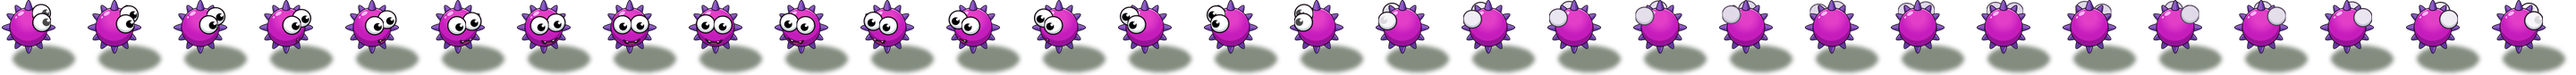
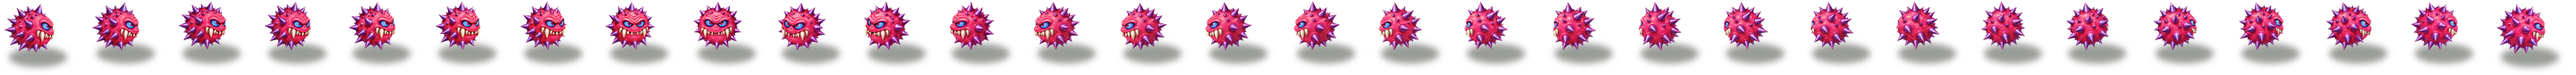
Repaint Pokey (all 30 headings) with the Codex v2 look
Claude-Session: https://claude.ai/code/session_01SMsyPA2gdtNVrQYtH9AZv3

diff --git a/web/tools/gen-pokey-full-sprite.py b/web/tools/gen-pokey-full-sprite.py
@@ -1,0 +1,167 @@
+"""
+Build the repainted Pokey (C1) from all 30 headings sprite sheet from Codex-painted frames. Replaces the parts-method sheet of gen-pokey-sprite.py.
+Usage (from the repo root):
+
+    pip install pillow numpy scipy
+    python web/tools/gen-pokey-full-sprite.py <source folder>
+
+The source folder holds the 2x2 grids that Codex painted on a flat #FF00FF ground (web/tools/pokey-kit/make_batch.py
+builds the inputs and the prompt of each call), named after the four sheet columns they cover, left to right then
+top to bottom: frames-0-1-2-3.png ... A quadrant that is not to be used (a column painted better in another grid)
+is written `x`, e.g. frames-16-17-18-x.png.
+
+Each painted frame is keyed (the magenta ground is flood-filled from the edge) and scaled so its whole silhouette covers
+about as many pixels as the old sprite does (AREA), with one factor smoothed over the 5 nearest headings so the size does not wobble. The monster stands
+on the old sprite's ground line, lifted a little brighter so it reads at the real size, with a soft ground shadow
+drawn under it. Output, in the original layout (30 headings in one row, 0 = east, clockwise, 12 degrees apart;
+24x21 cells):
+
+    server/public/assets/monsters/pokey-repaint.png      720x21
+    server/public/assets/monsters/pokey-repaint@4x.png   2880x84, the same at 4x
+
+The game draws the @4x sheet (REPAINTED_SHEETS in web/src/game/attack/monsterSprites.ts).
+"""
+import sys
+from pathlib import Path
+import numpy as np
+from PIL import Image, ImageFilter, ImageDraw
+from scipy import ndimage as ndi
+
+CELL = (24, 21)
+DIRS = 30
+UP = 4                     # the repaint's scale
+GAMMA = 0.9                # lifts the painting a little so it reads at the real size
+MARGIN = 0.5               # keep this many 1x pixels inside the cell
+AREA = 1.3                 # new silhouette area / old silhouette area (1 = the same size as the old sprite)
+DROP = 1.0                 # the new claw tips stand this many 1x pixels below the old solid body's bottom
+
+if len(sys.argv) != 2:
+    sys.exit(__doc__)
+SOURCE = Path(sys.argv[1])
+REPO = Path(__file__).resolve().parents[2]
+ASSETS = REPO / "server" / "public" / "assets" / "monsters"
+ORIGINAL = Image.open(ASSETS / "sprite.1.v1.png").convert("RGBA")
+
+
+def original_cell(col):
+    return np.asarray(ORIGINAL.crop((col * CELL[0], 0, (col + 1) * CELL[0], CELL[1]))).astype(int)
+
+
+def bbox(mask):
+    ys, xs = np.where(mask)
+    return xs.min(), ys.min(), xs.max() + 1, ys.max() + 1
+
+
+def old_body(col):
+    c = original_cell(col)
+    solid = c[..., 3] > 235
+    return solid, solid
+
+
+def teal(im):
+    """The whole painted monster (solid pixels of the cutout)."""
+    return np.asarray(im)[..., 3] > 200
+
+
+def key(path):
+    """The 4 monsters of a grid as RGBA cutouts, one per quadrant (cut at half the width and height)."""
+    rgb = np.asarray(Image.open(path).convert("RGB"), dtype=float)
+    h, w = rgb.shape[:2]
+    r, g, b = rgb[..., 0], rgb[..., 1], rgb[..., 2]
+    mx = np.maximum(r, b)
+    ground = (r > 185) & (b > 185) & (g < 110) & (np.abs(r - b) < 55)   # true magenta only, so the purple spikes survive
+    lab, _ = ndi.label(ground)
+    edge = set(lab[0, :]) | set(lab[-1, :]) | set(lab[:, 0]) | set(lab[:, -1])
+    edge.discard(0)
+    fg = ndi.binary_opening(~np.isin(lab, list(edge)), iterations=2)
+    lab2, _ = ndi.label(fg)
+    keep = np.zeros_like(fg)
+    for q in range(4):
+        x0, y0 = (q % 2) * w // 2, (q // 2) * h // 2
+        sub = lab2[y0:y0 + h // 2, x0:x0 + w // 2]
+        ids, cnt = np.unique(sub[sub > 0], return_counts=True)
+        for i, c in zip(ids, cnt):
+            if c > cnt.max() * 0.02:
+                keep[y0:y0 + h // 2, x0:x0 + w // 2] |= sub == i
+    keep = ndi.binary_fill_holes(keep)
+    keep &= ~((r > 215) & (b > 190) & (g < 90) & (np.abs(r - b) < 40))   # stray ground flecks
+    keep = ndi.binary_erosion(keep, iterations=2)
+    alpha = np.asarray(Image.fromarray((keep * 255).astype("uint8")).filter(ImageFilter.GaussianBlur(1.2)))
+    cut = Image.fromarray(np.dstack([rgb, alpha]).astype("uint8"), "RGBA")
+    return [cut.crop(((q % 2) * w // 2, (q // 2) * h // 2, (q % 2 + 1) * w // 2, (q // 2 + 1) * h // 2)) for q in range(4)]
+
+
+def resize_premultiplied(im, size):
+    """LANCZOS resize with the colour weighted by alpha, so the magenta ground leaves no fringe."""
+    a = np.asarray(im).astype("float32")
+    a[..., :3] *= a[..., 3:] / 255
+    chans = [np.asarray(Image.fromarray(a[..., i], "F").resize(size, Image.LANCZOS)) for i in range(4)]
+    o = np.dstack(chans)
+    al = np.clip(o[..., 3:], 0, 255)
+    rgb = np.where(al > 0, o[..., :3] / np.maximum(al, 1e-3) * 255, 0)
+    return Image.fromarray(np.dstack([np.clip(rgb, 0, 255), al]).astype("uint8"), "RGBA")
+
+
+painted = {}
+for path in sorted(SOURCE.glob("frames-*.png"), key=lambda p: [int(c) for c in p.stem.split("-")[1:] if c != "x"]):
+    names = path.stem.split("-")[1:]
+    for name, cut in zip(names, key(path)):
+        if name != "x":
+            painted.setdefault(int(name), cut)
+missing = [c for c in range(DIRS) if c not in painted]
+if missing:
+    sys.exit(f"no painting of columns {missing}")
+
+# one scale per heading: the old silhouette area over the new one, smoothed over 5 headings
+cover = {}
+for col, cut in painted.items():
+    cover[col] = np.sqrt(AREA * old_body(col)[1].sum() / teal(cut).sum())   # 1x pixels per painted pixel
+scale, fit, cap = {}, {}, {}
+for col, cut in painted.items():
+    # the painted grids differ in resolution, so smooth the size in 1x pixels (scale x sqrt of the painted area), not the scale
+    near = [cover[(col + d) % DIRS] * np.sqrt(teal(painted[(col + d) % DIRS]).sum()) for d in range(-2, 3)]
+    k = float(np.median(near)) / np.sqrt(teal(cut).sum())
+    solid, green = old_body(col)
+    gx0, gy0, gx1, gy1 = bbox(green)
+    tx0, ty0, tx1, ty1 = bbox(teal(cut))
+    cx, bottom = (gx0 + gx1) / 2, min(bbox(solid)[3] + DROP, CELL[1] - 2.5)   # the tentacle tips stand on the old ground line
+    fx0, fy0, fx1, fy1 = bbox(np.asarray(cut)[..., 3] > 40)
+    mid = (tx0 + tx1) / 2
+    left, right = (mid - fx0) * k, (fx1 - mid) * k
+    # the whole painting (tentacles included) has to stay in the cell
+    limit = min((cx - MARGIN) / left, (CELL[0] - MARGIN - cx) / right, (bottom - MARGIN) / ((fy1 - fy0) * k))
+    scale[col] = k * min(1.0, limit)
+    cap[col] = k * limit
+    fit[col] = (cx, bottom, mid, fy1)
+    print(f"column {col:2}: want {k:.4f} limit {limit:.3f} scale {scale[col]:.4f}" + (" (cut to fit the cell)" if limit < 1 else ""), file=sys.stderr)
+
+# smooth the cut sizes too (a heading cut harder than its neighbours would pulse), but never past the cell
+size = {c: scale[c] * np.sqrt(teal(painted[c]).sum()) for c in scale}
+scale = {c: min(cap[c], float(np.mean([size[(c + d) % DIRS] for d in range(-2, 3)])) / np.sqrt(teal(painted[c]).sum())) for c in scale}
+
+cw, ch = CELL[0] * UP, CELL[1] * UP
+sheet = Image.new("RGBA", (DIRS * cw, ch))
+for col in range(DIRS):
+    cut = painted[col]
+    cx, bottom, mid, fy1 = fit[col]
+    s = scale[col] * UP
+    mon = resize_premultiplied(cut, (max(1, round(cut.width * s)), max(1, round(cut.height * s))))
+    px = np.asarray(mon).astype(float)
+    px[..., :3] = 255 * (px[..., :3] / 255) ** GAMMA
+    mon = Image.fromarray(px.astype("uint8"), "RGBA")
+    bx, by = cx * UP, bottom * UP
+    ox, oy = round(bx - mid * s), round(by - fy1 * s)
+    shadow = Image.new("L", (cw, ch), 0)
+    sx, sy = (cx + 2.5) * UP, (bottom + 1.0) * UP   # the old sheet's shadow lies below and right of the ball
+    ImageDraw.Draw(shadow).ellipse((sx - 8 * UP, sy - 2.6 * UP, sx + 8 * UP, sy + 2.6 * UP), fill=110)
+    shadow = shadow.filter(ImageFilter.GaussianBlur(0.9 * UP))
+    cell = Image.new("RGBA", (cw, ch))
+    cell.paste((20, 25, 15, 255), (0, 0), shadow)
+    layer = Image.new("RGBA", (cw, ch))
+    layer.paste(mon, (ox, oy))
+    cell.alpha_composite(layer)
+    sheet.paste(cell, (col * cw, 0))
+
+sheet.save(ASSETS / "pokey-repaint@4x.png", optimize=True)
+sheet.resize(ORIGINAL.size, Image.LANCZOS).save(ASSETS / "pokey-repaint.png", optimize=True)
+print("wrote pokey-repaint@4x.png and pokey-repaint.png", file=sys.stderr)

diff --git a/web/tools/pokey-kit/make_batch.py b/web/tools/pokey-kit/make_batch.py
@@ -1,0 +1,81 @@
+"""
+make_batch.py <batch dir> <c1> <c2> <c3> <c4> : set up one Codex call for four Pokey headings.
+Writes frames.png (the old frames blown up 8x on grey), copies the approved test (style.png) and the portrait,
+and writes prompt.txt. Then, from the batch dir:
+    codex exec --skip-git-repo-check --sandbox workspace-write -i frames.png -i style.png -i portrait.png - < prompt.txt
+Headings are sheet columns of sprite.1.v1.png (30 x 34x31 cells, 12 degrees apart, 0 = east, clockwise).
+"""
+import shutil
+import sys
+from pathlib import Path
+import numpy as np
+from PIL import Image
+
+REPO = Path(__file__).resolve().parents[3]
+SHEET = REPO / "server" / "public" / "assets" / "monsters" / "sprite.1.v1.png"
+KIT = Path("D:/Coding/BYMR/art-trials/pokey")
+out = Path(sys.argv[1])
+cols = [int(c) for c in sys.argv[2:6]]
+out.mkdir(parents=True, exist_ok=True)
+
+sheet = Image.open(SHEET).convert("RGBA")
+grid = Image.new("RGB", (640, 512), (128, 128, 128))
+for i, c in enumerate(cols):
+    cell = sheet.crop((c * 24, 0, c * 24 + 24, 21)).resize((240, 210), Image.NEAREST)
+    bg = Image.new("RGBA", cell.size, (128, 128, 128, 255))
+    bg.alpha_composite(cell)
+    grid.paste(bg.convert("RGB"), ((i % 2) * 320 + 40, (i // 2) * 256 + 20))
+grid.save(out / "frames.png")
+shutil.copy(KIT / "codex" / "portrait.png", out / "portrait.png")
+
+
+def tight(im):
+    """Crop a painted cell to the monster (everything that is not the magenta ground)."""
+    a = np.asarray(im.convert("RGB")).astype(int)
+    bg = (a[..., 0] > 200) & (a[..., 1] < 90) & (a[..., 2] > 200)
+    ys, xs = np.where(~bg)
+    return im.crop((xs.min(), ys.min(), xs.max() + 1, ys.max() + 1))
+
+
+def quadrant(path, q):
+    im = Image.open(path).convert("RGB")
+    w, h = im.size
+    return tight(im.crop(((q % 2) * w // 2, (q // 2) * h // 2, (q % 2 + 1) * w // 2, (q // 2 + 1) * h // 2)))
+
+
+# style.png: one row of single views on magenta, left to right: [the last heading of the previous batch], then the two
+# approved views (left 0, viewer 90, right 180, away 270 degrees) that bracket this batch's headings
+APPROVED = KIT / "codex" / "frames-new-v2.png"
+lo = (cols[0] * 12) // 90 % 4
+views = [quadrant(APPROVED, lo), quadrant(APPROVED, (lo + 1) % 4)]
+# approved grid order is right (top-left), viewer (top-right), left (bottom-left), away (bottom-right)
+names = ["facing right (heading 0)", "facing the viewer (90)", "facing left (180)", "back to the viewer, facing away (270)"]
+used = [names[lo], names[(lo + 1) % 4]]
+prev = sys.argv[6:8]
+if prev:
+    views.insert(0, quadrant(prev[0], int(prev[1])))
+    used.insert(0, f"the previous batch's last heading ({(cols[0] - 1) * 12} degrees, already painted and approved)")
+H = max(v.height for v in views)
+strip = Image.new("RGB", (sum(v.width for v in views) + 40 * (len(views) + 1), H + 80), (255, 0, 255))
+x = 40
+for v in views:
+    strip.paste(v, (x, 40 + H - v.height))
+    x += v.width + 40
+strip.save(out / "style.png")
+
+h = [f"{c * 12} degrees" for c in cols]
+prompt = f"""Use your image generation tool (one call) to create a new image and save it as frames-new.png in the current folder. Do not write code and do not copy or composite pixels from the inputs.
+
+Input 1, frames.png: a 2x2 grid of 4 low-resolution isometric game sprites of the Pokey, blown up 10x (OLD design; ignore its colours, shapes and its dark ground shadow). Use it ONLY for facing, position and overall size. Heading in degrees: 0 = facing the screen's RIGHT, turning through 90 = facing toward the viewer (down), 180 = facing the screen's LEFT, 270 = facing away from the viewer showing its back (up); the camera is a 3/4 isometric view. Cell headings: top-left {h[0]}, top-right {h[1]}, bottom-left {h[2]}, bottom-right {h[3]}. Look closely at which way each old monster faces (the white eye on the old ball marks the front) and match that. Between the four main views the face turns gradually around the ball.
+
+Input 2, style.png: a row of single APPROVED views of this monster on magenta, left to right: {"; ".join(used)}. This row is NOT the layout of the output. Copy its exact design, colours, painting style and proportions for every new cell: a round pink-magenta wrinkled ball covered in MANY long sharp PURPLE cone SPIKES (about 20 around the outline, each one third to one half of the ball's radius long, lighter purple tips, like a sea mine), ANGRY BLUE EYES with red pupils and a wide mouth with white FANGS on the front. In every cell the spikes must be as many and as long as in style.png, all around the outline and over the visible surface. Same creature in every cell, rotated to the cell's own heading from frames.png (for in-between headings, turn the face smoothly between the approved views: the face slides sideways and shrinks as it turns away, the spikes stay around the whole ball; never mirror to face the wrong way). In the back view (270) there is NO face, only the spiky ball.
+
+Input 3, portrait.png: the official concept painting, for design and colour reference only.
+
+Output: ONE image with the same 2x2 grid layout and canvas proportions as frames.png (640x512 or a 2x multiple), each monster at the same position and facing as the matching cell of frames.png, redesigned as in style.png. Make each monster about the old sprite's size (the ball with its spikes no bigger than about 1.2x the old one). Keep the same scale in all four cells.
+Style: hand-painted digital illustration like the portrait, soft shading, rich texture, glossy highlights, NO thick cartoon outline, NOT cute, no pixel art.
+Background everywhere: flat pure magenta #FF00FF. No shadows, no ground, no grid lines, no text, no labels."""
+import os
+prompt += chr(10) + os.environ.get("NOTE", "")
+(out / "prompt.txt").write_text(prompt, encoding="utf-8")
+print("ready", out, cols)
